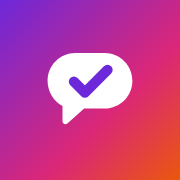
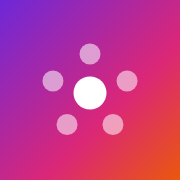
A real website when signed out, a computer layout, and the circle mark
- New mark: five friends in a ring around one lit-up choice (option C);
  new app icons, favicon and App Store icon; the four options are in
  brand/logo-options.png
- Signed out: a full website: navigation, hero with the sign-up form,
  phone previews of the app, how it works, example questions, features,
  questions, closing call to action, footer. Invite and question links
  keep their focused screen
- Signed in on a computer: a sidebar with the five places and an Ask a
  question button instead of the phone tab bar; content up to 680px
- The website is cleared once you're in the app, so its previews can't
  be mistaken for the real thing

Claude-Session: https://claude.ai/code/session_01J8AUBuzWLUsUVcDrFkGs38

Changed region(s): [[0.2222, 0.2222, 0.7778, 0.75]]

diff --git a/index.html b/index.html
@@ -343,6 +343,78 @@ button{cursor:pointer;border:0;background:none;padding:0;text-align:left}
 body.kb .tabs{display:none}
 body.kb .page{padding-bottom:calc(28px + env(safe-area-inset-bottom,0px))}
 body.kb .toast{bottom:12px}
+/* ---- the website (signed out) ---- */
+body.site .app{max-width:none;box-shadow:none}
+.land.sitemode{padding:0;gap:0;scroll-behavior:smooth;display:block}
+.swrap{width:100%;max-width:1120px;margin:0 auto;padding:0 20px}
+.snav{position:sticky;top:0;z-index:5;background:var(--tabbar);-webkit-backdrop-filter:blur(16px) saturate(1.5);backdrop-filter:blur(16px) saturate(1.5);border-bottom:1px solid var(--line)}
+.navin{display:flex;align-items:center;gap:20px;min-height:64px;padding-top:env(safe-area-inset-top,0px)}
+.navin .brand{text-decoration:none;color:var(--ink)}.navin .grow{flex:1}
+.sl{color:var(--ink2);font-weight:700;text-decoration:none;font-size:16px}.sl:hover{color:var(--ink)}.sl.strong{color:var(--ink)}
+.shero{display:grid;gap:32px;padding:40px 0 32px}
+.eyebrow{display:inline-block;font-size:14px;font-weight:800;color:var(--accent-ink);background:var(--accent-soft);border-radius:999px;padding:6px 12px;margin-bottom:16px}
+.shero h1{font-size:clamp(36px,6.2vw,64px);line-height:1.02;font-weight:800;letter-spacing:-.045em}
+.shero h1 em{font-style:normal;background:var(--brand);-webkit-background-clip:text;background-clip:text;color:transparent}
+.shero .lede{color:var(--ink2);font-size:18px;font-weight:600;margin:16px 0 20px;max-width:540px}
+.sjoin{background:var(--surface);border-radius:32px;padding:24px;box-shadow:0 30px 60px -34px rgba(76,29,149,.55);display:flex;flex-direction:column;gap:12px;scroll-margin-top:96px}
+.sjoin h3{font-size:22px;font-weight:800}
+.sshow{overflow-x:auto;scrollbar-width:none;padding:16px 0 24px}.sshow::-webkit-scrollbar{display:none}
+.phones{display:flex;gap:24px;justify-content:center;min-width:max-content;padding:0 20px}
+.phone{width:264px;height:520px;border-radius:44px;background:#17132B;padding:10px;box-shadow:0 40px 70px -36px rgba(76,29,149,.6);flex:none}
+.pscreen{height:100%;border-radius:36px;background:var(--bg);overflow:hidden;padding:24px 12px 12px;display:flex;flex-direction:column;gap:12px}
+.pscreen .big{min-height:0;flex:1;padding:16px;gap:12px;animation:none;border-radius:28px}
+.pscreen .big h2{font-size:22px}.pscreen .big .ans button{min-height:48px;font-size:16px;pointer-events:none}
+.pscreen .big .who .av{width:40px;height:40px}
+.pscreen.reveal{color:#fff;align-items:center;justify-content:center;text-align:center;gap:12px}
+.pscreen.reveal small{font-weight:800;letter-spacing:.07em;font-size:12px;text-transform:uppercase;opacity:.92}
+.pscreen.reveal h2{font-size:28px;font-weight:800}.pscreen.reveal .bigp{font-weight:800;font-size:72px;line-height:1;letter-spacing:-.05em}
+.ptitle{font-size:28px;font-weight:800;padding:0 4px}
+.pscreen .ctile{padding:12%}.pscreen .ctile b{font-size:14px;overflow-wrap:normal}.pscreen .ctile span{font-size:12px}
+.pscreen .big .who .wt{font-size:12px}.pscreen .big .who .wt b{font-size:16px}
+.land a.btn{text-decoration:none}
+.ssec{padding:48px 0;scroll-margin-top:64px}
+.ssec h2,.scta h2{font-size:clamp(28px,4vw,36px);font-weight:800;line-height:1.1}
+.slede{color:var(--ink2);font-weight:600;font-size:18px;margin-top:8px}
+.sgrid3{display:grid;gap:16px;margin-top:24px}
+.scard{background:var(--surface);border-radius:24px;padding:24px;box-shadow:var(--lift);display:flex;flex-direction:column;gap:8px}
+.scard h3{font-size:18px;font-weight:800}.scard p{color:var(--ink2);font-weight:600;font-size:16px}
+.snum,.sicon{width:40px;height:40px;border-radius:12px;background:var(--brand);color:#fff;display:flex;align-items:center;justify-content:center;font-weight:800}
+.sq{display:flex;flex-wrap:wrap;gap:12px;margin-top:24px}
+.sq span{background:var(--surface);border-radius:999px;padding:12px 18px;font-weight:700;font-size:16px;box-shadow:var(--lift)}
+.sfaq{display:flex;flex-direction:column;gap:12px;margin-top:24px;max-width:760px}
+.sfaq details{background:var(--surface);border-radius:16px;padding:16px 20px;box-shadow:var(--lift)}
+.sfaq summary{font-weight:800;cursor:pointer;list-style:none;display:flex;justify-content:space-between;gap:12px}
+.sfaq summary::after{content:"+";color:var(--accent);font-weight:800}.sfaq details[open] summary::after{content:"–"}
+.sfaq p{color:var(--ink2);font-weight:600;margin-top:8px}
+.scta{margin:24px 0 48px;border-radius:32px;padding:40px 24px;text-align:center;color:#fff;background:var(--brand);display:flex;flex-direction:column;align-items:center;gap:12px}
+.scta p{font-size:18px;font-weight:600;opacity:.95}.scta .btn{background:#fff;color:#17132B;margin-top:8px}
+.sfoot{display:flex;flex-wrap:wrap;gap:20px;padding:24px 0 calc(40px + env(safe-area-inset-bottom,0px));border-top:1px solid var(--line);color:var(--ink2);font-weight:600;font-size:14px}
+.sfoot a{color:var(--ink2);font-weight:700}
+@media (max-width:719px){ .sl{display:none} .sl.strong{display:inline} }
+@media (min-width:900px){
+  .shero{grid-template-columns:1.1fr .9fr;align-items:center;padding:80px 0 48px;gap:56px}
+  .sgrid3{grid-template-columns:repeat(3,1fr)}
+}
+/* ---- the app on a computer: a sidebar instead of the bottom bar ---- */
+.tabbrand{display:none}
+@media (min-width:960px){
+  body:not(.site) .app{max-width:none;box-shadow:none}
+  body:not(.site) .page{padding:32px max(24px,calc((100vw - 1080px)/2 + 24px)) 48px calc(max(24px,(100vw - 1080px)/2) + 272px)}
+  body:not(.site) .page>*{max-width:680px;width:100%}
+  .tabs{position:fixed;left:max(24px,calc((100vw - 1080px)/2));top:24px;bottom:auto;right:auto;width:240px;display:flex;flex-direction:column;align-items:stretch;gap:4px;padding:16px 12px;border-radius:28px}
+  body.kb .tabs{display:flex}
+  .tabbrand{display:flex;align-items:center;gap:12px;font-size:22px;font-weight:800;letter-spacing:-.04em;padding:4px 8px 16px}
+  .tab{flex-direction:row;justify-content:flex-start;gap:12px;min-height:48px;padding:0 12px;font-size:16px;border-radius:16px}
+  .tab:hover{background:var(--sunk)}
+  .tab[aria-current="page"]{background:var(--accent-soft)}
+  .tab .badge{position:static;margin-left:auto;border:0}
+  .tab.ask{order:9;margin-top:8px;background:var(--brand);color:#fff;justify-content:center;min-height:52px;box-shadow:0 12px 24px -12px rgba(219,39,119,.7)}
+  .tab.ask:hover{background:var(--brand)}
+  .tab.ask span.plus{background:none;box-shadow:none;width:auto;height:auto}
+  .tab.ask::after{content:"Ask a question";font-weight:800;font-size:16px}
+  .toast{left:50%;right:auto;transform:translateX(-50%);width:440px;bottom:24px}
+  body.kb .toast{bottom:24px}
+}
 .toast{position:absolute;left:14px;right:14px;bottom:calc(96px + env(safe-area-inset-bottom,0px));z-index:6;display:flex;align-items:center;gap:12px;background:#17132B;color:#fff;border-radius:16px;padding:12px 12px 12px 16px;font-weight:700;font-size:14px;animation:in .2s ease;box-shadow:0 12px 30px -12px rgba(0,0,0,.5)}
 .toast span{flex:1;min-width:0}
 .toast button{min-height:34px;padding:0 12px;border-radius:999px;background:rgba(255,255,255,.16);font-weight:800;font-size:14px;color:#fff}
@@ -359,7 +431,7 @@ body.kb .toast{bottom:12px}
 </style>
 
 <div class="app" id="app">
-  <div class="loading" id="boot"><div class="brand"><svg width="38" height="38" viewBox="0 0 96 96" aria-hidden="true"><defs><linearGradient id="swgboot" x1="0" y1="0" x2="1" y2="1"><stop offset="0" stop-color="#6D28D9"/><stop offset=".62" stop-color="#DB2777"/><stop offset="1" stop-color="#EA580C"/></linearGradient></defs><rect width="96" height="96" rx="28" fill="url(#swgboot)"/><path d="M38 22h20c10.5 0 19 8.5 19 19s-8.5 19-19 19H44l-11.5 10.2c-1.3 1.1-3.3.2-3.3-1.5V58.2C23 54.9 19 48.4 19 41c0-10.5 8.5-19 19-19z" fill="#fff"/><path d="M37 41.5l7.5 7.5L60 33.5" fill="none" stroke="#6D28D9" stroke-width="7" stroke-linecap="round" stroke-linejoin="round"/></svg>sway</div></div>
+  <div class="loading" id="boot"><div class="brand"><svg width="38" height="38" viewBox="0 0 96 96" aria-hidden="true"><defs><linearGradient id="swgboot" x1="0" y1="0" x2="1" y2="1"><stop offset="0" stop-color="#6D28D9"/><stop offset=".62" stop-color="#DB2777"/><stop offset="1" stop-color="#EA580C"/></linearGradient></defs><rect width="96" height="96" rx="28" fill="url(#swgboot)"/><g fill="#fff" fill-opacity=".55"><circle cx="48" cy="22" r="7"/><circle cx="72.7" cy="40" r="7"/><circle cx="63.3" cy="69" r="7"/><circle cx="32.7" cy="69" r="7"/><circle cx="23.3" cy="40" r="7"/></g><circle cx="48" cy="48" r="11" fill="#fff"/></svg>sway</div></div>
   <div class="land" id="land" hidden></div>
   <div class="page" id="page" hidden></div>
   <nav class="tabs" id="tabs" aria-label="Main" hidden></nav>
@@ -398,7 +470,7 @@ var I={
   staro:'<svg width="18" height="18" viewBox="0 0 24 24" fill="none" stroke="currentColor" stroke-width="2" stroke-linejoin="round" aria-hidden="true"><path d="M12 3.8l2.5 5.2 5.7.8-4.1 4 1 5.7L12 16.8l-5.1 2.7 1-5.7-4.1-4 5.7-.8z"/></svg>',
   gift:'<svg width="14" height="14" viewBox="0 0 24 24" fill="none" stroke="currentColor" stroke-width="2.3" stroke-linecap="round" stroke-linejoin="round" aria-hidden="true"><rect x="3.5" y="8" width="17" height="4.5" rx="1"/><path d="M5 12.5V20h14v-7.5M12 8v12M12 8c-1.5-3.5-5.5-4-5.5-1.5S10 8 12 8zm0 0c1.5-3.5 5.5-4 5.5-1.5S14 8 12 8z"/></svg>',
   img:'<svg width="20" height="20" viewBox="0 0 24 24" fill="none" stroke="currentColor" stroke-width="2" stroke-linecap="round" stroke-linejoin="round" aria-hidden="true"><rect x="3.5" y="4.5" width="17" height="15" rx="3"/><circle cx="9" cy="10" r="1.8"/><path d="M20.5 16l-5-5L6 19.5"/></svg>',
-  logoT:'<svg width="34" height="34" viewBox="0 0 96 96" aria-hidden="true"><defs><linearGradient id="swg" x1="0" y1="0" x2="1" y2="1"><stop offset="0" stop-color="#6D28D9"/><stop offset=".62" stop-color="#DB2777"/><stop offset="1" stop-color="#EA580C"/></linearGradient></defs><rect width="96" height="96" rx="28" fill="url(#swg)"/><path d="M38 22h20c10.5 0 19 8.5 19 19s-8.5 19-19 19H44l-11.5 10.2c-1.3 1.1-3.3.2-3.3-1.5V58.2C23 54.9 19 48.4 19 41c0-10.5 8.5-19 19-19z" fill="#fff"/><path d="M37 41.5l7.5 7.5L60 33.5" fill="none" stroke="#6D28D9" stroke-width="7" stroke-linecap="round" stroke-linejoin="round"/></svg>'
+  logoT:'<svg width="34" height="34" viewBox="0 0 96 96" aria-hidden="true"><defs><linearGradient id="swg" x1="0" y1="0" x2="1" y2="1"><stop offset="0" stop-color="#6D28D9"/><stop offset=".62" stop-color="#DB2777"/><stop offset="1" stop-color="#EA580C"/></linearGradient></defs><rect width="96" height="96" rx="28" fill="url(#swg)"/><g fill="#fff" fill-opacity=".55"><circle cx="48" cy="22" r="7"/><circle cx="72.7" cy="40" r="7"/><circle cx="63.3" cy="69" r="7"/><circle cx="32.7" cy="69" r="7"/><circle cx="23.3" cy="40" r="7"/></g><circle cx="48" cy="48" r="11" fill="#fff"/></svg>'
 };
 
 /* ---------- usage numbers and error reports, stored in our own database only ---------- */
@@ -998,7 +1070,7 @@ function draw(mode){
 function drawTabs(){
   var n=toVote().length+ready().length;
   var nv=0; S.polls.forEach(function(p){ nv+=newVotes(p) });
-  $('#tabs').innerHTML=[['vote','Vote',I.vote,n],['mine','Mine',I.mine,nv],['ask','Ask',I.plus,0],['circles','Circles',I.circles,0],['you','You',I.you,0]].map(function(t){
+  $('#tabs').innerHTML='<div class="tabbrand">'+logo(30)+'sway</div>'+[['vote','Vote',I.vote,n],['mine','Mine',I.mine,nv],['ask','Ask',I.plus,0],['circles','Circles',I.circles,0],['you','You',I.you,0]].map(function(t){
     if(t[0]==='ask') return '<button class="tab ask" data-a="tab" data-t="ask" aria-label="Ask a question"><span class="plus">'+t[2]+'</span></button>';
     return '<button class="tab" data-a="tab" data-t="'+t[0]+'"'+(tab===t[0]&&!(stack.length&&stack[0][0]==='ask')?' aria-current="page"':'')+'>'+t[2]+t[1]+(t[3]?'<span class="badge">'+t[3]+'</span>':'')+'</button>'}).join('');
   try{document.title=(n?'('+n+') ':'')+'Sway'}catch(e){}
@@ -1430,35 +1502,70 @@ function refreshPush(){ if(!PUSH_OK||!HAS4||!pushOn()) return; navigator.service
 
 /* ================= accounts and landing ================= */
 var AUTH={tab:'signup',err:'',msg:'',busy:false,invite:null,poll:null,pick:null},PENDING=null,PENDQ=null,ONLOAD=null;
+function authBlock(){
+  var h='';
+  if(!LIVE){ return '<form class="authf" data-f="auth"><label class="sr" for="auName">Your first name</label><input class="plain" id="auName" maxlength="24" autocomplete="given-name" placeholder="Your first name"><button class="btn primary wide" type="submit" style="min-height:56px">Try the demo</button></form><p class="hint">This is the demo: example friends, saved nowhere.</p>' }
+  var tabs=(AUTH.invite||AUTH.poll?[['guest','Just vote']]:[]).concat([['signup','Sign up'],['login','Log in']]);
+  h+='<div class="seg" role="tablist">'+tabs.map(function(t){return '<button type="button" role="tab" aria-selected="'+(AUTH.tab===t[0])+'" data-auth="'+t[0]+'">'+t[1]+'</button>'}).join('')+'</div>';
+  h+='<form class="authf" data-f="auth">'+(AUTH.tab!=='login'?'<label class="sr" for="auName">Your first name</label><input class="plain" id="auName" maxlength="24" autocomplete="given-name" placeholder="Your first name">':'')+
+    (AUTH.tab!=='guest'?'<label class="sr" for="auEmail">Email</label><input class="plain" id="auEmail" type="email" autocomplete="email" placeholder="Email"><label class="sr" for="auPw">Password</label><input class="plain" id="auPw" type="password" autocomplete="'+(AUTH.tab==='signup'?'new-password':'current-password')+'" placeholder="Password'+(AUTH.tab==='signup'?' (8 or more characters)':'')+'">':'')+
+    (AUTH.err?'<p class="err" role="alert">'+esc(AUTH.err)+'</p>':'')+(AUTH.msg?'<p class="okmsg" role="status">'+esc(AUTH.msg)+'</p>':'')+
+    '<button class="btn primary wide" type="submit" style="min-height:56px"'+(AUTH.busy?' disabled':'')+'>'+(AUTH.busy?'One moment…':AUTH.tab==='guest'?(AUTH.pick!=null?'Send my vote':'Join and vote'):AUTH.tab==='signup'?'Create my account':'Log in')+'</button>'+
+    (AUTH.tab==='login'?'<button type="button" class="linkbtn" data-forgot="1" style="align-self:flex-start">Forgot your password?</button>':'')+'</form>';
+  h+='<p class="hint" style="text-align:center">By '+(AUTH.poll?'voting':'continuing')+' you agree to the <a href="terms/" style="color:var(--accent)">Terms</a> and <a href="privacy/" style="color:var(--accent)">Privacy Policy</a>.</p>';
+  return h;
+}
+function siteHtml(){
+  var mockCard='<div class="phone" aria-hidden="true"><div class="pscreen"><div class="big mock" style="background:linear-gradient(135deg,#6D28D9,#DB2777)"><div class="who"><span class="av" style="background:#FFD3C4">MC</span><span class="wt"><b>Maya needs you</b>Best friends</span></div>'+
+    '<span class="cd cdrow"><span class="rg" style="--p:.7"></span><b class="cdn">1:59:58</b> left to vote</span><h2>Should I text him back?</h2><div class="ans"><button tabindex="-1"><span class="k" style="background:#6D28D9">A</span>Yes, today</button><button tabindex="-1"><span class="k" style="background:#6D28D9">B</span>Make him wait</button></div>'+
+    '<div class="foot"><span class="faces"><span class="av" style="background:#D9D0FF">JR</span><span class="av" style="background:#FFE79E">PN</span></span><span style="margin-left:6px">3 of 5 voted</span></div></div></div></div>';
+  var mockReveal='<div class="phone" aria-hidden="true"><div class="pscreen reveal" style="background:linear-gradient(135deg,#047857,#0369A1)"><small>Should I take the job?</small><h2>Take it wins.</h2><span class="bigp">80%</span><span>4 of 5 friends said yes</span></div></div>';
+  var mockCircles='<div class="phone" aria-hidden="true"><div class="pscreen"><h3 class="ptitle">Circles</h3><div class="cgrid">'+
+    [['Best friends','6 people','linear-gradient(135deg,#6D28D9,#DB2777)'],['Family','4 people','linear-gradient(135deg,#C2410C,#DB2777)'],['Roommates','3 people','linear-gradient(135deg,#0369A1,#6D28D9)'],['Work crew','8 people','linear-gradient(135deg,#047857,#0369A1)']].map(function(c){return '<div class="ctile" style="background:'+c[2]+'"><b>'+c[0]+'</b><span>'+c[1]+'</span></div>'}).join('')+'</div></div></div>';
+  var feat=[[I.circles,'Private circles','Only the people you invite. No followers, no strangers, no public feed.'],[I.mask,'Anonymous when it matters','For the awkward ones: friends vote without anyone seeing who picked what.'],[I.img,'Photo questions','Which outfit, which flat, which haircut: up to 10 photos, one tap to vote.'],
+    [I.check,'A real verdict','Votes stay sealed until it closes, then everyone sees the result together.'],[I.bell,'Notifications that respect you','The first vote, the verdict, a gentle nudge. Quiet at night. Mute any circle.'],[I.lock,'Yours to delete','Your data stays in the app. Delete your account and everything goes.']];
+  var qs=['Should I text him back?','Which dress for Saturday?','Take the job or stay?','Where should we eat tonight?','Is this haircut a mistake?','Should I tell her the truth?','Which flat should I rent?','Am I overreacting?'];
+  var faq=[['Is it free?','Yes. Making circles, asking and voting are free.'],['Who sees my questions?','Only the members of the circles you choose for that question. Nothing is public.'],['Do my friends need to sign up?','No. They can vote from your link with just their first name, and add an email later to keep their account.'],['Can I ask anonymously?','You can make voting anonymous, so nobody sees who picked what. In bigger circles you can also hide that you asked.'],['Is there an app?','It works in your phone’s browser right now. Add it to your Home Screen to get notifications.']];
+  return '<div class="site">'+
+    '<nav class="snav"><div class="swrap navin"><a class="brand" href="#top">'+logo(32)+'sway</a><span class="grow"></span><a class="sl" href="#how">How it works</a><a class="sl" href="business/">For businesses</a>'+(LIVE?'<a class="sl strong" href="#join" data-auth-go="login">Log in</a>':'')+'<a class="btn primary sm" href="#join">'+(LIVE?'Get started':'Try the demo')+'</a></div></nav>'+
+    '<div class="swrap"><section class="shero" id="top"><div class="stext"><span class="eyebrow">For friends who overthink</span><h1>Ask your people <em>before</em> you decide.</h1>'+
+      '<p class="lede">Post the dilemma. Your closest friends vote in one tap. You get a verdict in minutes, not a group chat that goes nowhere.</p>'+
+      '<div class="trust"><span>Private circles only</span><span>No followers, no likes</span><span>Free</span></div></div>'+
+      '<div class="sjoin" id="join"><h3>'+(LIVE?'Start in 30 seconds':'Try it now')+'</h3>'+authBlock()+'</div></section></div>'+
+    '<section class="sshow"><div class="phones">'+mockCard+mockReveal+mockCircles+'</div></section>'+
+    '<div class="swrap"><section id="how" class="ssec"><h2>How it works</h2><p class="slede">Three steps, a few minutes, no endless group chat.</p><div class="sgrid3">'+
+      [['1','Ask your circle','The decision you’re stuck on, big or small. Add options or photos.'],['2','Friends vote in one tap','From a link, even without an account. Anonymously, if you want.'],['3','Get the verdict','Votes stay sealed until the end, then the result is revealed to everyone.']].map(function(x){return '<div class="scard"><span class="snum">'+x[0]+'</span><h3>'+x[1]+'</h3><p>'+x[2]+'</p></div>'}).join('')+'</div></section>'+
+    '<section class="ssec"><h2>Built for the decisions you actually make</h2><div class="sq">'+qs.map(function(q){return '<span>'+esc(q)+'</span>'}).join('')+'</div></section>'+
+    '<section class="ssec"><h2>Everything a friend’s opinion needs</h2><div class="sgrid3">'+feat.map(function(f){return '<div class="scard"><span class="sicon">'+f[0]+'</span><h3>'+f[1]+'</h3><p>'+f[2]+'</p></div>'}).join('')+'</div></section>'+
+    '<section class="ssec"><h2>Questions</h2><div class="sfaq">'+faq.map(function(f){return '<details><summary>'+f[0]+'</summary><p>'+f[1]+'</p></details>'}).join('')+'</div></section>'+
+    '<section class="scta"><h2>Stop overthinking alone.</h2><p>Make a circle, invite your people, ask your first question.</p><a class="btn" href="#join">'+(LIVE?'Get started, it’s free':'Try the demo')+'</a></section>'+
+    '<footer class="sfoot"><span>© sway</span><a href="privacy/">Privacy</a><a href="terms/">Terms</a><a href="business/">For businesses</a></footer></div></div>';
+}
 function landing(){
-  var land=$('#land'),h='<div class="brand">'+logo(34)+'sway</div>';
-  if(AUTH.poll){
-    var P=AUTH.poll,ms=Date.parse(P.closes_at)-now(),g=grad(PENDQ||'x');
-    h+='<div class="big" style="background:'+g+';min-height:0"><div class="who"><span class="av" style="background:#fff">'+esc((P.asker_name||'?').slice(0,2).toUpperCase())+'</span><span class="wt"><b>'+esc(P.asker_name)+' wants your vote</b>'+esc(P.circle_name)+' · '+left(ms)+'</span></div><h2>'+esc(P.question)+'</h2>'+
-      ((P.options||[]).length&&ms>0?'<div class="ans">'+P.options.map(function(o,i){return '<button data-pick="'+i+'" style="'+(AUTH.pick===i?'outline:3px solid #17132B;outline-offset:2px':'')+'"><span class="k" style="background:'+solid(PENDQ||'x')+'">'+LET[i]+'</span>'+esc(o)+(AUTH.pick===i?'<span style="margin-left:auto">'+I.check+'</span>':'')+'</button>'}).join('')+'</div>':'')+
-      '</div><p class="hint" style="font-size:16px">'+(ms<=0?'Voting has closed. Join to see the result.':AUTH.pick!=null?'Got it. Add your first name and your vote is in.':'Tap your answer, add your first name, done. No password needed.')+'</p>';
-  } else {
-    h+='<h1>Ask your people <em>before</em> you decide.</h1><p class="lede">Post the dilemma. Your closest friends vote in one tap. You get a verdict in minutes, not a group chat that goes nowhere.</p>';
-    if(AUTH.invite) h+='<div class="banner">'+I.circles+'<span><b>'+esc(AUTH.invite.owner_name)+'</b> invited you to <b>'+esc(AUTH.invite.name)+'</b>. Join to vote on their questions.</span></div>';
-  }
-  if(!LIVE){ h+='<form class="authf" data-f="auth"><label class="sr" for="auName">Your first name</label><input class="plain" id="auName" maxlength="24" autocomplete="given-name" placeholder="Your first name"><button class="btn primary wide" type="submit" style="min-height:56px">Try the demo</button></form><p class="hint">This is the demo: example friends, saved nowhere.</p>' }
+  var land=$('#land'),h,site=!AUTH.poll&&!AUTH.invite&&!(LIVE&&ISBIZ);
+  document.body.classList.toggle('site',site); land.classList.toggle('sitemode',site);
+  if(site){ h=siteHtml() }
   else {
-    var tabs=(AUTH.invite||AUTH.poll?[['guest','Just vote']]:[]).concat([['signup','Sign up'],['login','Log in']]);
-    h+='<div class="seg" role="tablist">'+tabs.map(function(t){return '<button type="button" role="tab" aria-selected="'+(AUTH.tab===t[0])+'" data-auth="'+t[0]+'">'+t[1]+'</button>'}).join('')+'</div>';
-    h+='<form class="authf" data-f="auth">'+(AUTH.tab!=='login'?'<label class="sr" for="auName">Your first name</label><input class="plain" id="auName" maxlength="24" autocomplete="given-name" placeholder="Your first name">':'')+
-      (AUTH.tab!=='guest'?'<label class="sr" for="auEmail">Email</label><input class="plain" id="auEmail" type="email" autocomplete="email" placeholder="Email"><label class="sr" for="auPw">Password</label><input class="plain" id="auPw" type="password" autocomplete="'+(AUTH.tab==='signup'?'new-password':'current-password')+'" placeholder="Password'+(AUTH.tab==='signup'?' (8 or more characters)':'')+'">':'')+
-      (AUTH.err?'<p class="err" role="alert">'+esc(AUTH.err)+'</p>':'')+(AUTH.msg?'<p class="okmsg" role="status">'+esc(AUTH.msg)+'</p>':'')+
-      '<button class="btn primary wide" type="submit" style="min-height:56px"'+(AUTH.busy?' disabled':'')+'>'+(AUTH.busy?'One moment…':AUTH.tab==='guest'?(AUTH.pick!=null?'Send my vote':'Join and vote'):AUTH.tab==='signup'?'Create my account':'Log in')+'</button>'+
-      (AUTH.tab==='login'?'<button type="button" class="linkbtn" data-forgot="1" style="align-self:flex-start">Forgot your password?</button>':'')+'</form>';
+    h='<div class="brand">'+logo(34)+'sway</div>';
+    if(AUTH.poll){
+      var P=AUTH.poll,ms=Date.parse(P.closes_at)-now(),g=grad(PENDQ||'x');
+      h+='<div class="big" style="background:'+g+';min-height:0"><div class="who"><span class="av" style="background:#fff">'+esc((P.asker_name||'?').slice(0,2).toUpperCase())+'</span><span class="wt"><b>'+esc(P.asker_name)+' wants your vote</b>'+esc(P.circle_name)+' · '+left(ms)+'</span></div><h2>'+esc(P.question)+'</h2>'+
+        ((P.options||[]).length&&ms>0?'<div class="ans">'+P.options.map(function(o,i){return '<button data-pick="'+i+'" style="'+(AUTH.pick===i?'outline:3px solid #17132B;outline-offset:2px':'')+'"><span class="k" style="background:'+solid(PENDQ||'x')+'">'+LET[i]+'</span>'+esc(o)+(AUTH.pick===i?'<span style="margin-left:auto">'+I.check+'</span>':'')+'</button>'}).join('')+'</div>':'')+
+        '</div><p class="hint" style="font-size:16px">'+(ms<=0?'Voting has closed. Join to see the result.':AUTH.pick!=null?'Got it. Add your first name and your vote is in.':'Tap your answer, add your first name, done. No password needed.')+'</p>';
+    } else {
+      h+='<h1>Ask your people <em>before</em> you decide.</h1><p class="lede">Post the dilemma. Your closest friends vote in one tap. You get a verdict in minutes, not a group chat that goes nowhere.</p>';
+      if(AUTH.invite) h+='<div class="banner">'+I.circles+'<span><b>'+esc(AUTH.invite.owner_name)+'</b> invited you to <b>'+esc(AUTH.invite.name)+'</b>. Join to vote on their questions.</span></div>';
+    }
+    h+=authBlock()+'<div class="trust"><span>Private circles only</span><span>No followers, no likes</span><span>A feed that ends</span></div>';
+    if(LIVE) h+='<p class="hint" style="text-align:center">'+(ISBIZ?'Log in to manage your business. New here? <a href="business/#apply" style="color:var(--accent);font-weight:800">Apply for your place</a>':'Own a restaurant, cafe or shop? <a href="business/" style="color:var(--accent);font-weight:800">Sway for businesses</a>')+'</p>';
   }
-  if(LIVE&&!AUTH.poll) h+='<p class="hint" style="text-align:center">By continuing you agree to the <a href="terms/" style="color:var(--accent)">Terms</a> and <a href="privacy/" style="color:var(--accent)">Privacy Policy</a>.</p>';
-  if(LIVE&&AUTH.poll) h+='<p class="hint" style="text-align:center">By voting you agree to the <a href="terms/" style="color:var(--accent)">Terms</a> and <a href="privacy/" style="color:var(--accent)">Privacy Policy</a>.</p>';
-  h+='<div class="trust"><span>Private circles only</span><span>No followers, no likes</span><span>A feed that ends</span></div>';
-  if(LIVE) h+='<p class="hint" style="text-align:center">'+(ISBIZ?'Log in to manage your business. New here? <a href="business/#apply" style="color:var(--accent);font-weight:800">Apply for your place</a>':'Own a restaurant, cafe or shop? <a href="business/" style="color:var(--accent);font-weight:800">Sway for businesses</a>')+'</p>';
   var keep={}; land.querySelectorAll('input').forEach(function(i){keep[i.id]=i.value});
   land.innerHTML=h; land.querySelectorAll('input').forEach(function(i){ if(keep[i.id]!=null) i.value=keep[i.id] });
 }
 document.addEventListener('click',function(e){
+  var jg=e.target.closest('#land a[href="#join"]');
+  if(jg){ e.preventDefault(); if(jg.dataset.authGo&&AUTH.tab!==jg.dataset.authGo){ AUTH.tab=jg.dataset.authGo; AUTH.err=''; AUTH.msg=''; landing() }
+    var jn=$('#join'); if(jn) jn.scrollIntoView({behavior:'smooth',block:'center'}); setTimeout(function(){ var f=$('#auName')||$('#auEmail'); if(f) try{f.focus({preventScroll:true})}catch(x){} },450); return }
   var t=e.target.closest('[data-auth],[data-pick],[data-forgot]'); if(!t||!$('#land').contains(t)) return;
   if(t.dataset.auth){ AUTH.tab=t.dataset.auth; AUTH.err=''; AUTH.msg=''; return landing() }
   if(t.dataset.pick!=null){ AUTH.pick=+t.dataset.pick; AUTH.tab='guest'; buzz(); landing(); var n=$('#auName'); if(n) n.focus(); return }
@@ -1504,6 +1611,7 @@ function enter(user){
   }).then(liveRefresh,liveRefresh);
 }
 function enterApp(){
+  document.body.classList.remove('site'); $('#land').innerHTML=''; $('#land').classList.remove('sitemode');
   $('#boot').hidden=true; $('#land').hidden=true; $('#page').hidden=false; $('#tabs').hidden=false;
   tab='vote'; stack=[]; draw('nav');
   if(LIVE&&ISBIZ&&/[?&]business/.test(location.search)){ tab='you'; stack=GUEST?[]:[['biz']]; draw('nav'); if(!GUEST) setTimeout(loadBiz,600); try{ history.replaceState(null,'',location.pathname) }catch(e){} }

diff --git a/privacy/index.html b/privacy/index.html
@@ -30,7 +30,7 @@ footer{margin-top:36px;padding-top:18px;border-top:1px solid var(--line);display
 </head>
 <body>
 <div class="wrap">
-<header><a class="brand" href="../"><svg width="30" height="30" viewBox="0 0 96 96" aria-hidden="true"><defs><linearGradient id="swg" x1="0" y1="0" x2="1" y2="1"><stop offset="0" stop-color="#6D28D9"/><stop offset=".62" stop-color="#DB2777"/><stop offset="1" stop-color="#EA580C"/></linearGradient></defs><rect width="96" height="96" rx="28" fill="url(#swg)"/><path d="M38 22h20c10.5 0 19 8.5 19 19s-8.5 19-19 19H44l-11.5 10.2c-1.3 1.1-3.3.2-3.3-1.5V58.2C23 54.9 19 48.4 19 41c0-10.5 8.5-19 19-19z" fill="#fff"/><path d="M37 41.5l7.5 7.5L60 33.5" fill="none" stroke="#6D28D9" stroke-width="7" stroke-linecap="round" stroke-linejoin="round"/></svg>sway</a></header>
+<header><a class="brand" href="../"><svg width="30" height="30" viewBox="0 0 96 96" aria-hidden="true"><defs><linearGradient id="swg" x1="0" y1="0" x2="1" y2="1"><stop offset="0" stop-color="#6D28D9"/><stop offset=".62" stop-color="#DB2777"/><stop offset="1" stop-color="#EA580C"/></linearGradient></defs><rect width="96" height="96" rx="28" fill="url(#swg)"/><g fill="#fff" fill-opacity=".55"><circle cx="48" cy="22" r="7"/><circle cx="72.7" cy="40" r="7"/><circle cx="63.3" cy="69" r="7"/><circle cx="32.7" cy="69" r="7"/><circle cx="23.3" cy="40" r="7"/></g><circle cx="48" cy="48" r="11" fill="#fff"/></svg>sway</a></header>
 <h1>Privacy policy</h1>
 <p class="meta">Last updated: 19 November 2026</p>
 <p>Sway is a private app for asking your friends before you decide. This policy explains what we collect, why, who helps us run the app, and the choices you have. We don’t sell your data and we don’t show ads.</p>

diff --git a/terms/index.html b/terms/index.html
@@ -30,7 +30,7 @@ footer{margin-top:36px;padding-top:18px;border-top:1px solid var(--line);display
 </head>
 <body>
 <div class="wrap">
-<header><a class="brand" href="../"><svg width="30" height="30" viewBox="0 0 96 96" aria-hidden="true"><defs><linearGradient id="swg" x1="0" y1="0" x2="1" y2="1"><stop offset="0" stop-color="#6D28D9"/><stop offset=".62" stop-color="#DB2777"/><stop offset="1" stop-color="#EA580C"/></linearGradient></defs><rect width="96" height="96" rx="28" fill="url(#swg)"/><path d="M38 22h20c10.5 0 19 8.5 19 19s-8.5 19-19 19H44l-11.5 10.2c-1.3 1.1-3.3.2-3.3-1.5V58.2C23 54.9 19 48.4 19 41c0-10.5 8.5-19 19-19z" fill="#fff"/><path d="M37 41.5l7.5 7.5L60 33.5" fill="none" stroke="#6D28D9" stroke-width="7" stroke-linecap="round" stroke-linejoin="round"/></svg>sway</a></header>
+<header><a class="brand" href="../"><svg width="30" height="30" viewBox="0 0 96 96" aria-hidden="true"><defs><linearGradient id="swg" x1="0" y1="0" x2="1" y2="1"><stop offset="0" stop-color="#6D28D9"/><stop offset=".62" stop-color="#DB2777"/><stop offset="1" stop-color="#EA580C"/></linearGradient></defs><rect width="96" height="96" rx="28" fill="url(#swg)"/><g fill="#fff" fill-opacity=".55"><circle cx="48" cy="22" r="7"/><circle cx="72.7" cy="40" r="7"/><circle cx="63.3" cy="69" r="7"/><circle cx="32.7" cy="69" r="7"/><circle cx="23.3" cy="40" r="7"/></g><circle cx="48" cy="48" r="11" fill="#fff"/></svg>sway</a></header>
 <h1>Terms of use</h1>
 <p class="meta">Last updated: 19 November 2026</p>
 <p>These terms are the agreement between you and Sway when you use the app or website. By using Sway you agree to them. If you don’t agree, please don’t use Sway.</p>

diff --git a/business/index.html b/business/index.html
@@ -113,7 +113,7 @@ footer{padding:30px 0 calc(40px + env(safe-area-inset-bottom,0px));color:var(--i
 <body>
 <div class="wrap">
   <header>
-    <a class="brand" href="../"><svg width="34" height="34" viewBox="0 0 96 96" aria-hidden="true"><defs><linearGradient id="swg" x1="0" y1="0" x2="1" y2="1"><stop offset="0" stop-color="#6D28D9"/><stop offset=".62" stop-color="#DB2777"/><stop offset="1" stop-color="#EA580C"/></linearGradient></defs><rect width="96" height="96" rx="28" fill="url(#swg)"/><path d="M38 22h20c10.5 0 19 8.5 19 19s-8.5 19-19 19H44l-11.5 10.2c-1.3 1.1-3.3.2-3.3-1.5V58.2C23 54.9 19 48.4 19 41c0-10.5 8.5-19 19-19z" fill="#fff"/><path d="M37 41.5l7.5 7.5L60 33.5" fill="none" stroke="#6D28D9" stroke-width="7" stroke-linecap="round" stroke-linejoin="round"/></svg>sway <small>for business</small></a>
+    <a class="brand" href="../"><svg width="34" height="34" viewBox="0 0 96 96" aria-hidden="true"><defs><linearGradient id="swg" x1="0" y1="0" x2="1" y2="1"><stop offset="0" stop-color="#6D28D9"/><stop offset=".62" stop-color="#DB2777"/><stop offset="1" stop-color="#EA580C"/></linearGradient></defs><rect width="96" height="96" rx="28" fill="url(#swg)"/><g fill="#fff" fill-opacity=".55"><circle cx="48" cy="22" r="7"/><circle cx="72.7" cy="40" r="7"/><circle cx="63.3" cy="69" r="7"/><circle cx="32.7" cy="69" r="7"/><circle cx="23.3" cy="40" r="7"/></g><circle cx="48" cy="48" r="11" fill="#fff"/></svg>sway <small>for business</small></a>
     <span class="grow"></span>
     <a class="btn ghost sm" href="../?business" id="loginTop">Log in</a>
   </header>

diff --git a/tests/live/business-page.js b/tests/live/business-page.js
@@ -16,7 +16,7 @@ const sql = (q) => execSync('curl -sS -m 30 -X POST https://api.supabase.com/v1/
   const step = async (name, fn) => { try { await fn(); log.push('OK   ' + name); } catch (e) { log.push('FAIL ' + name + ' :: ' + String(e.message).split('\n')[0].slice(0, 220)); } };
   const P = await mk('Phone'), D = await mk('Desk', 1280, 900), U = await mk('User');
   await step('the app landing links to the business page', async () => {
-    await P.goto(base + 'index.html'); await P.waitForSelector('a[href="business/"]', { timeout: 20000 }); await P.click('a[href="business/"]'); await P.waitForSelector('#form:not([hidden])', { timeout: 20000 });
+    await P.goto(base + 'index.html'); await P.waitForSelector('.site', { timeout: 20000 }); await P.click('a[href="business/"]:visible >> nth=0'); await P.waitForSelector('#form:not([hidden])', { timeout: 20000 });
     await P.screenshot({ path: require('os').tmpdir() + '/bp-phone-top.png' }); });
   await step('desktop layout', async () => { await D.goto(base + 'business/'); await D.waitForSelector('#form:not([hidden])', { timeout: 20000 }); await D.screenshot({ path: require('os').tmpdir() + '/bp-desk.png', fullPage: true }); });
   await step('a new owner applies (new account)', async () => {

diff --git a/DESIGN.md b/DESIGN.md
@@ -8,10 +8,12 @@ and the words "Sway" change; the mark, colours and type stay.
 
 **Idea:** your people weigh in, and you get your answer.
 
-**Mark:** a white speech bubble with a check, on the brand gradient (`brand/mark.svg`). The
-bubble is your friends talking; the check is the verdict. App icons are in the repo root
-(`icon-192.png`, `icon-512.png`, `apple-touch-icon.png`, `favicon.png`), and the 1024px App Store
-icon is `brand/app-store-icon-1024.png`. Don't add text to the icon or recolour the mark.
+**Mark:** "the circle": five friends in a ring around one lit-up choice, white on the brand
+gradient (`brand/mark.svg`). It says "a private circle deciding together", and doesn't look like
+a chat or to-do app. App icons are in the repo root (`icon-192.png`, `icon-512.png`,
+`apple-touch-icon.png`, `favicon.png`), and the 1024px App Store icon is
+`brand/app-store-icon-1024.png`. Don't add text to the icon or recolour the mark. The other
+options that were considered are in `brand/logo-options.png`.
 
 **Wordmark:** the name in lowercase, Plus Jakarta Sans ExtraBold (800), tight letter-spacing,
 next to the mark.
@@ -67,6 +69,12 @@ Exceptions: initials inside small avatars (10–11px) and the reveal percentage 
   button only.
 
 ## Layout and navigation
+
+- **Signed out:** a website. Navigation bar, hero with the sign-up form, phone previews,
+  how it works, examples, features, questions, a closing call to action, footer. Invite and
+  question links skip the website and show a focused screen, so a friend can vote fast.
+- **Signed in on a phone:** the app with the bottom tab bar. **On a computer (960px and up):** a
+  sidebar with the same five places and an "Ask a question" button; content up to 680px wide.
 
 - Five labelled tabs: Vote, Mine, Ask (centre, gradient), Circles, You. Every question,
   circle or form opens as its own page with a back arrow.
